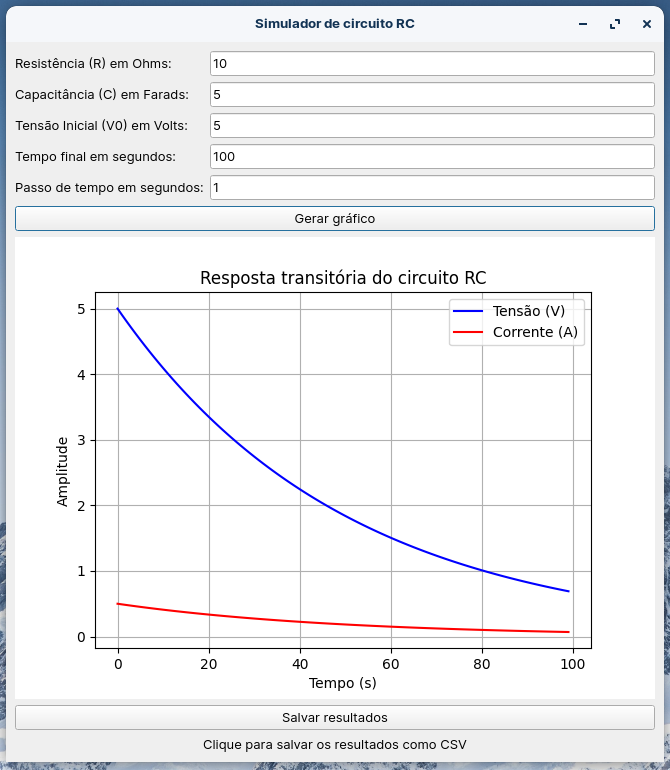
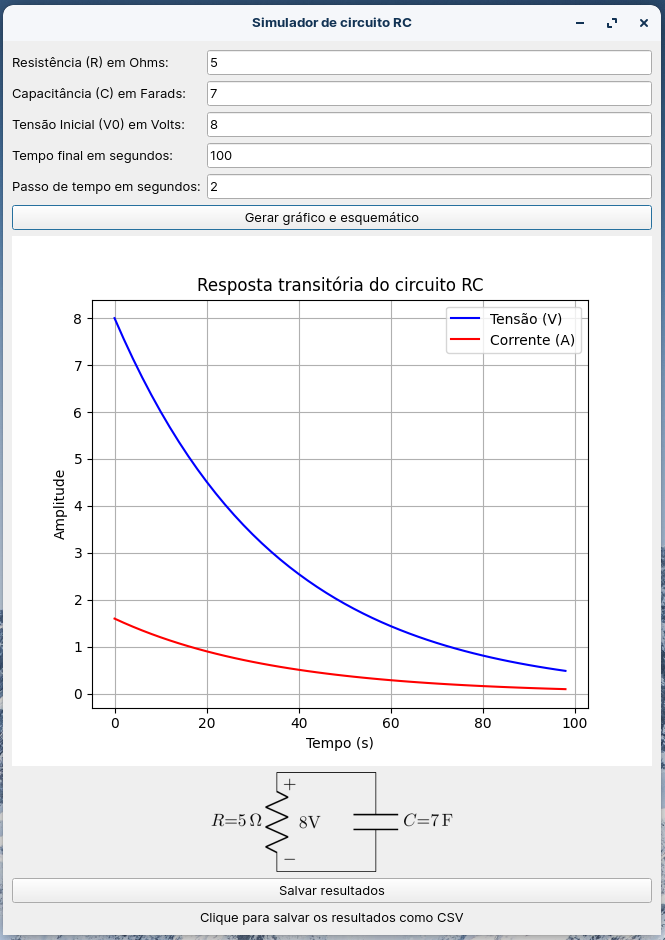
Corrige tamanho dos widgets na interface

diff --git a/src/simulador_de_circuito_rc/simulador.py b/src/simulador_de_circuito_rc/simulador.py
@@ -82,10 +82,12 @@ class Simulador(QMainWindow):
 
         self.figura_gerada = plt.figure()
         self.canvas = FigureCanvas(self.figura_gerada)
+        self.canvas.setMinimumSize(500, 530)
         layout.addWidget(self.canvas)
 
         self.esquematico = QLabel(self)
-        layout.addWidget(self.esquematico)
+        self.esquematico.adjustSize()
+        layout.addWidget(self.esquematico, alignment = Qt.AlignCenter)
 
         self.botao_salvar = QPushButton("Salvar resultados")
         self.botao_salvar.clicked.connect(self.salvar_resultados)
@@ -93,8 +95,7 @@ class Simulador(QMainWindow):
         layout.addWidget(self.botao_salvar)
 
         self.label_fim = QLabel("Gere o gráfico e esquemático antes de poder ter acesso aos resultados")
-        self.label_fim.setAlignment(Qt.AlignCenter)
-        layout.addWidget(self.label_fim)
+        layout.addWidget(self.label_fim, alignment = Qt.AlignCenter)
 
         container = QWidget()
         container.setLayout(layout)
@@ -104,7 +105,7 @@ class Simulador(QMainWindow):
         """
         Esta função encapsula as outras duas que formam a simulação do circuito RC. Primeiro é chamada gerar_grafico e posteriormente
         gerar_esquematico. Se gerar_grafico falhar (o que pode ocorrer se, por exemplo, os valores informados pelo usuário não serem
-        válidos) a função gerar_esquematico não será chamada, e será mostrada uma janela contendo uma mensagem de erro.
+        válidos) nenhuma das linhas seguintes no bloco try serão executadas, e será mostrada uma janela contendo uma mensagem de erro.
 
         Esta função também troca o cursor do usuário para indicar que está sendo processada a simulação, visto que o uso da classe
         Circuit do pacote lcapy é demorado.
@@ -113,6 +114,8 @@ class Simulador(QMainWindow):
 
         try:
             self.gerar_grafico()
+            self.botao_salvar.setEnabled(True) # Habilita o botão de salvar os resultados
+            self.label_fim.setText("Clique para salvar os resultados como CSV")
             self.gerar_esquematico()
         except Exception as e:
             QApplication.restoreOverrideCursor()
@@ -153,10 +156,7 @@ class Simulador(QMainWindow):
         graf.set_title("Resposta transitória do circuito RC")
         graf.grid()
         graf.legend()
-
         self.canvas.draw()
-        self.botao_salvar.setEnabled(True) # Habilita o botão de salvar os resultados
-        self.label_fim.setText("Clique para salvar os resultados como CSV")
 
     def gerar_esquematico(self):
         """
@@ -171,9 +171,8 @@ class Simulador(QMainWindow):
         ; draw_nodes=connections, label_nodes=none""")
         circuito.draw('../../images/circuito_rc.png')
         imagem = QPixmap('../../images/circuito_rc.png')
-        imagem_reduzida = imagem.scaled(150, 150, Qt.KeepAspectRatio, Qt.SmoothTransformation)
-        self.esquematico.setPixmap(imagem_reduzida)
-        self.esquematico.setFixedSize(imagem_reduzida.size())
+        imagem = imagem.scaled(300, 100, Qt.KeepAspectRatio, Qt.SmoothTransformation)
+        self.esquematico.setPixmap(imagem)
 
     def salvar_resultados(self):
         """
